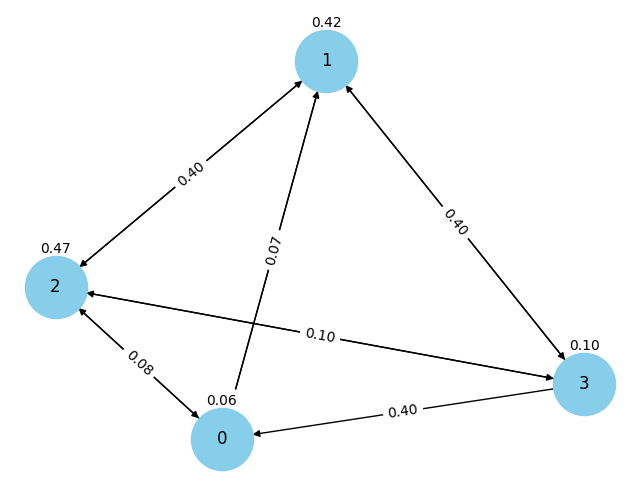
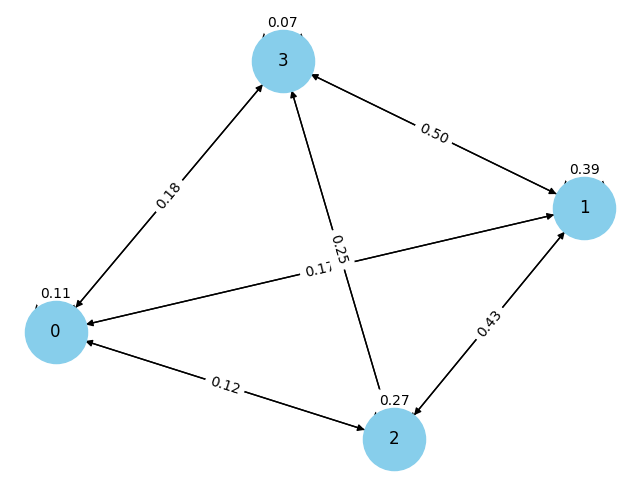
fin

diff --git a/markov.py b/markov.py
@@ -4,16 +4,44 @@ from numpy.linalg import matrix_power
 import matplotlib.pyplot as plt
 import networkx as nx
 
-# Define the transition matrix P for a Markov Chain with 4 states
-P = np.array([
-    [0.06, 0.41, 0.53, 0.00],
-    [0.07, 0.42, 0.47, 0.04],
-    [0.08, 0.40, 0.47, 0.05],
-    [0.40, 0.40, 0.10, 0.10]
-])
+import pandas as pd
+import numpy as np
+
+# Read the CSV file.
+df = pd.read_csv("./S&P 500 2023 Data.csv")
+
+# Categorize states based on the "Change %" column.
+def categorize_change(change_percent_str):
+    change_percent = float(change_percent_str.replace('%', ''))
+    if change_percent > 1:
+        return 1  # State 0: Going Up High
+    elif 0 <= change_percent <= 1:
+        return 2  # State 1: Going Up Low
+    elif -1 <= change_percent < 0:
+        return 3  # State 2: Going Down Low
+    else:
+        return 4  # State 3: Going Down High
+
+# Convert "Change %" of each row to state.
+df['state'] = df['Change %'].apply(categorize_change)
+
+# Initialize the transition probability matrix.
+transition_matrix = np.zeros((4, 4))
+
+# Count state transitions.
+for i in range(1, len(df)):
+    from_state = df['state'][i - 1] - 1
+    to_state = df['state'][i] - 1
+    transition_matrix[from_state][to_state] += 1
+
+# Convert to transition probability matrix.
+transition_matrix = transition_matrix / transition_matrix.sum(axis=1, keepdims=True)
+
+print("Transition Matrix:")
+print(transition_matrix)
 
 # Normalize P to ensure each row sums to 1
-P = P / P.sum(axis=1, keepdims=True)
+P = transition_matrix / transition_matrix.sum(axis=1, keepdims=True)
 
 # Check if the Markov chain is ergodic
 def is_ergodic(P):
